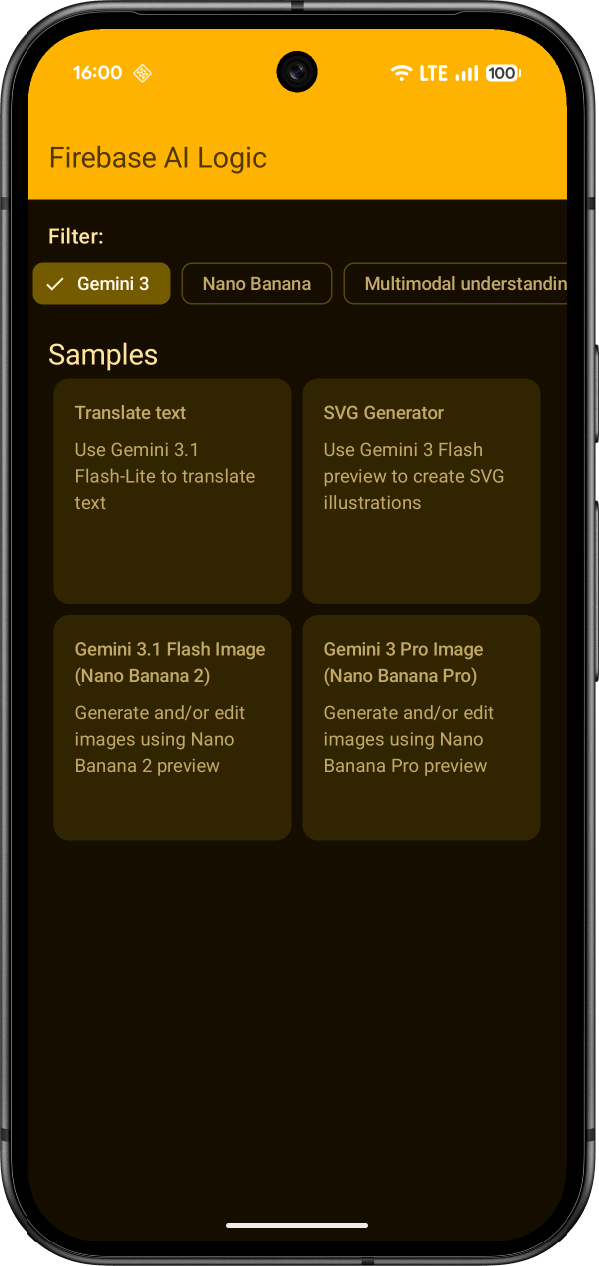
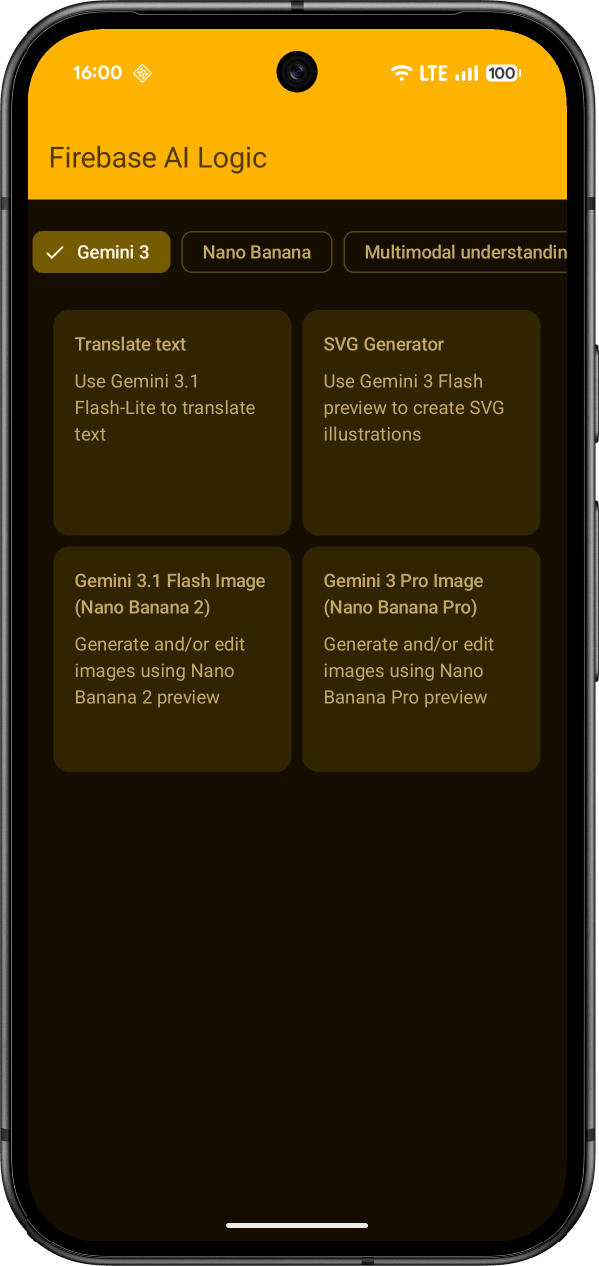
remove text labels
Keeps it Simple :)

Changed region(s): [[0.0301, 0.154, 0.9616, 0.6777]]

diff --git a/firebase-ai/app/src/main/java/com/google/firebase/quickstart/ai/ui/navigation/MainMenuScreen.kt b/firebase-ai/app/src/main/java/com/google/firebase/quickstart/ai/ui/navigation/MainMenuScreen.kt
@@ -57,11 +57,6 @@ fun MenuScreen(
             .padding(top = 16.dp)
     ) {
         var selectedCategory by rememberSaveable { mutableStateOf(filters.first()) }
-        Text(
-            text = filterTitle,
-            style = MaterialTheme.typography.titleMedium,
-            modifier = Modifier.padding(horizontal = 16.dp)
-        )
         LazyRow {
             items(filters) { capability ->
                 FilterChip(
@@ -85,17 +80,12 @@ fun MenuScreen(
                 )
             }
         }
-        Text(
-            text = "Samples",
-            style = MaterialTheme.typography.titleLarge,
-            modifier = Modifier.padding(all = 16.dp)
-        )
         val filteredSamples = samples.filter {
             it.categories.contains(selectedCategory)
         }
         LazyVerticalGrid(
             columns = GridCells.Adaptive(MIN_CARD_SIZE),
-            modifier = Modifier.padding(horizontal = 16.dp)
+            modifier = Modifier.padding(start = 16.dp, end = 16.dp, top = 16.dp)
         ) {
             items(filteredSamples) { sample ->
                 SampleItem(sample.title, sample.description, onItemClicked = {